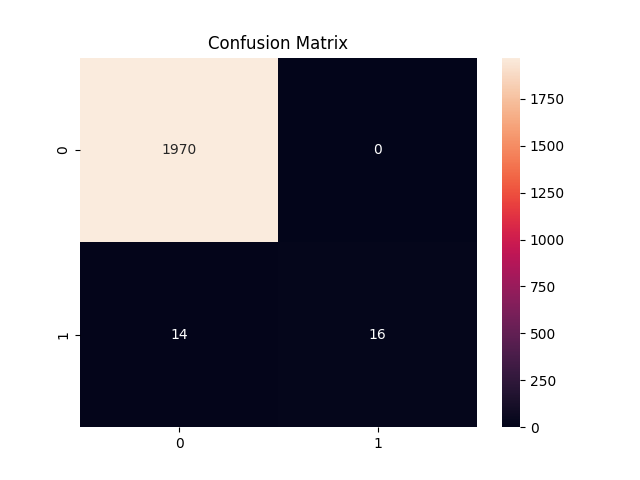
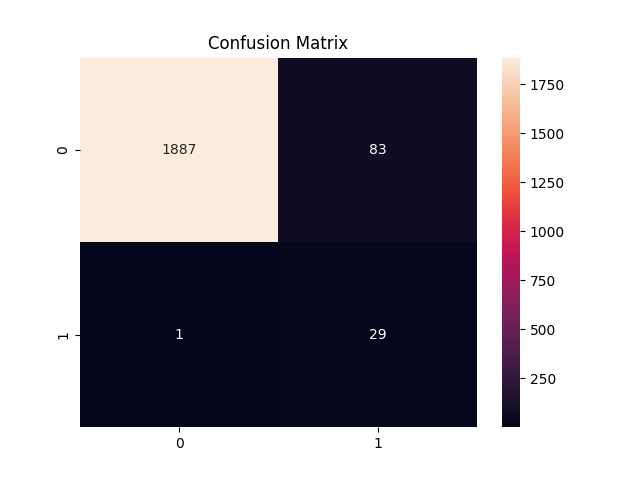
mlops

diff --git a/app/main.py b/app/main.py
@@ -1,10 +1,16 @@
 from fastapi import FastAPI
 from pydantic import BaseModel
 import pandas as pd
+import mlflow
 import mlflow.sklearn
+from app.db.models import Base
+from app.db.session import engine
+from app.services.prediction_logger import log_prediction
 
 
 app = FastAPI(title="Fraud Detection API")
+
+mlflow.set_tracking_uri(os.getenv("MLFLOW_TRACKING_URI"))
 
 MODEL_NAME = "fraud-detection-model"
 
@@ -26,6 +32,9 @@ class Transaction(BaseModel):
 def root():
     return {"status": "running"}
 
+@app.on_event("startup")
+def startup():
+    Base.metadata.create_all(bind = engine)
 
 @app.get("/health")
 def health():
@@ -33,6 +42,8 @@ def health():
 
 @app.post("/predict")
 def predict(transaction: Transaction, threshold: float = 0.8):
+
+    start_time = time.time()
 
     df = pd.DataFrame([{
         "amount": transaction.amount,
@@ -45,9 +56,18 @@ def predict(transaction: Transaction, threshold: float = 0.8):
         "cardholder_age": transaction.cardholder_age,
     }])
 
-    probability = float(model.predict(df)[0])
-
+    probability = float(model.predict_proba(df)[0][1])
     prediction = int(probability >= threshold)
+
+    latency_ms = (time.time() - start_time) * 1000
+
+    log_prediction(
+        model_version = "production",
+        features = df.to_dict(orient = "records")[0],
+        prediction = prediction,
+        probability = probability,
+        latency = latency_ms
+    )
 
     return {
         "fraud_probability": round(probability, 4),

diff --git a/app/db/models.py b/app/db/models.py
@@ -1,0 +1,16 @@
+from sqlalchemy import Column, Integer, String, Float, DateTime, JSON
+from sqlalchemy.ext.declarative import declarative_base
+from datetime import datetime, timezone
+
+Base = declarative_base()
+
+class PredictionLog(Base):
+    __tablename__ = "predictions"
+
+    id = Column(Integer, primary_key = True, index = True)
+    timestamp = Column(DateTime(timezone=True), default = lambda: datetime.now(timezone.utc))
+    model_version = Column(String)
+    features = Column(JSON)
+    prediction = Column(Integer)
+    probability = Column(Float)
+    latency_ms = Column(Float)

diff --git a/app/services/prediction_logger.py b/app/services/prediction_logger.py
@@ -1,0 +1,15 @@
+from app.db.models import PredictionLog
+from app.db.session import SessionLocal
+
+def log_prediction(model_version, features, prediction, probability, latency):
+    db = SessionLocal()
+    record = PredictionLog(
+        model_version = model_version,
+        features = features,
+        prediction = prediction,
+        probability = probability,
+        latency_ms = latency
+    )
+    db.add(record)
+    db.commit()
+    db.close()

diff --git a/training/train.py b/training/train.py
@@ -11,7 +11,7 @@ from sklearn.metrics import (
     f1_score,
 )
 from sklearn.model_selection import train_test_split
-from preprocess import load_data, build_preprocessor
+from features.preprocess import load_data, build_preprocessor
 import matplotlib.pyplot as plt
 import seaborn as sns
 import numpy as np

diff --git a/app/db/session.py b/app/db/session.py
@@ -1,0 +1,7 @@
+from sqlalchemy import create_engine
+from sqlalchemy.orm import sessionmaker
+
+DATABASE_URL = "postgresql://fraud:fraud@db:5432/frauddb"
+
+engine = create_engine(DATABASE_URL)
+SessionLocal = sessionmaker(autocommit = False, autoflush = False, bind = engine)
